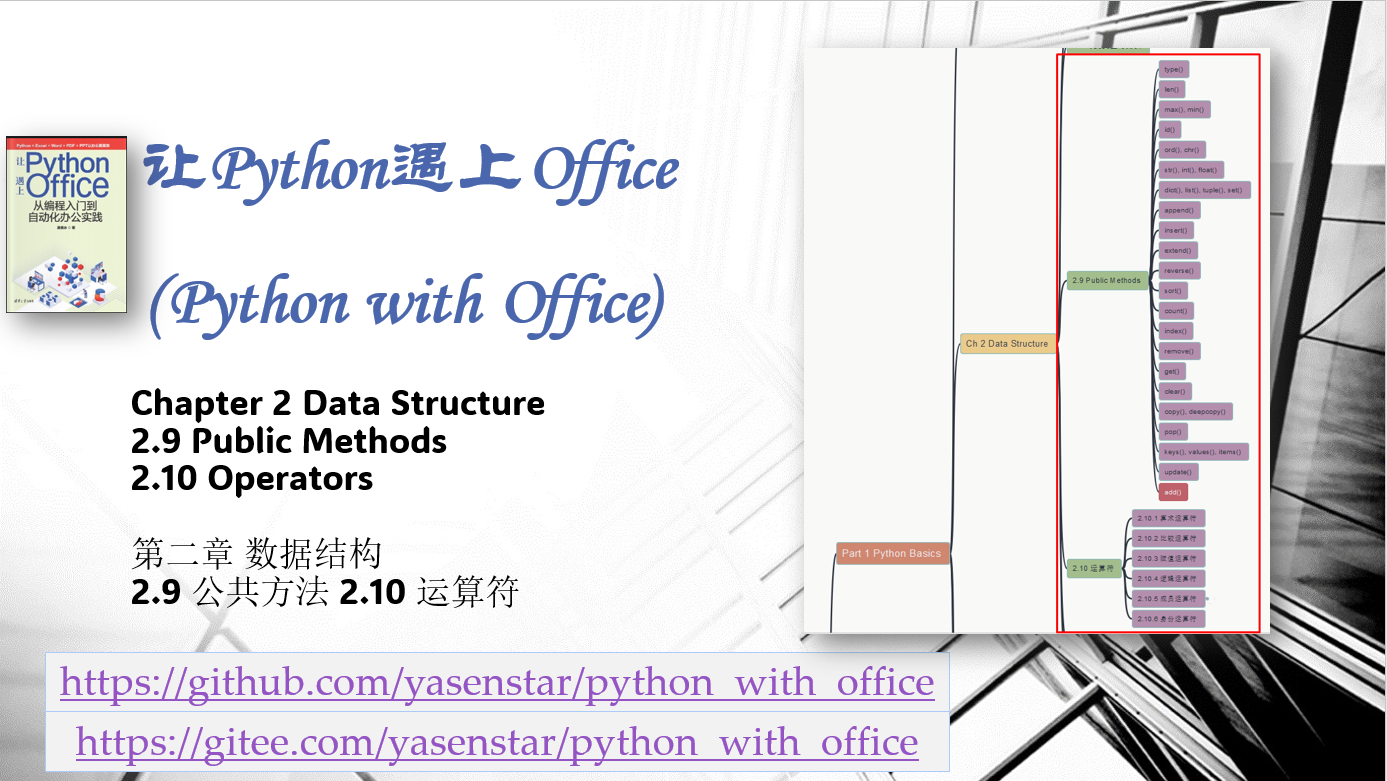
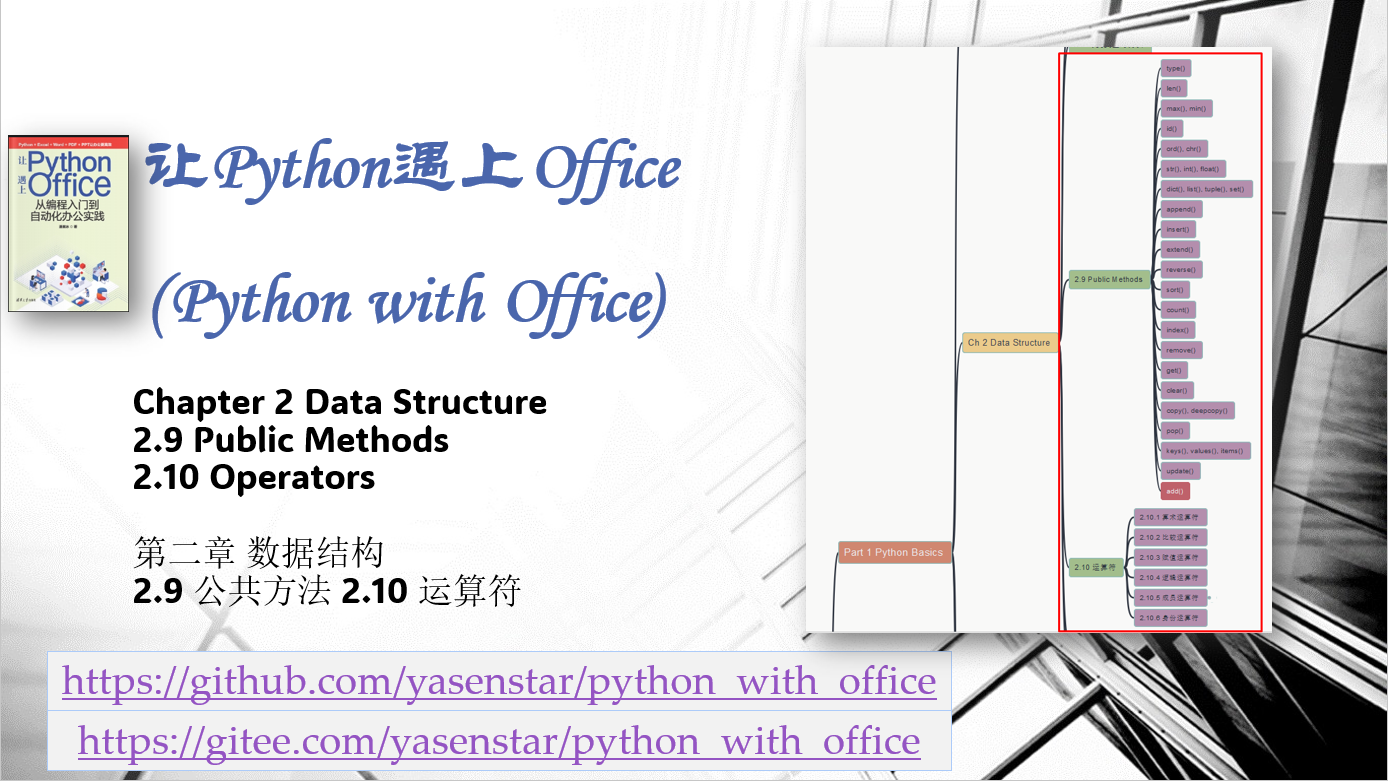
add 2-9 and 2-10

diff --git a/Python_in_Office.mm b/Python_in_Office.mm
@@ -3,7 +3,7 @@
 <node TEXT="Python in Office" LOCALIZED_STYLE_REF="AutomaticLayout.level.root" FOLDED="false" ID="ID_1090958577" CREATED="1409300609620" MODIFIED="1697644508245">
 <hook NAME="accessories/plugins/AutomaticLayout.properties" VALUE="ALL"/>
 <font BOLD="true"/>
-<hook NAME="MapStyle" background="#f9f9f8" zoom="0.77">
+<hook NAME="MapStyle" background="#f9f9f8" zoom="1.301">
     <properties show_icon_for_attributes="true" edgeColorConfiguration="#808080ff,#ff0000ff,#0000ffff,#00ff00ff,#ff00ffff,#00ffffff,#7c0000ff,#00007cff,#007c00ff,#7c007cff,#007c7cff,#7c7c00ff" show_note_icons="true" associatedTemplateLocation="template:/light_nord_template.mm" fit_to_viewport="false"/>
 
 <map_styles>
@@ -161,7 +161,7 @@
 <node TEXT="module: copy" ID="ID_1362805103" CREATED="1697759334476" MODIFIED="1697759338254"/>
 </node>
 </node>
-<node TEXT="2.9 Public Methods" ID="ID_1871793617" CREATED="1697644733565" MODIFIED="1697644751653">
+<node TEXT="2.9 Public Methods" FOLDED="true" ID="ID_1871793617" CREATED="1697644733565" MODIFIED="1697644751653">
 <node TEXT="type()" ID="ID_1294025124" CREATED="1697842657619" MODIFIED="1697842662860"/>
 <node TEXT="len()" ID="ID_899205959" CREATED="1697842663589" MODIFIED="1697842665750"/>
 <node TEXT="max(), min()" ID="ID_1100320387" CREATED="1697842665933" MODIFIED="1697842672734"/>
@@ -185,19 +185,49 @@
 <node TEXT="update()" ID="ID_37893305" CREATED="1697842750171" MODIFIED="1697842752871"/>
 <node TEXT="add()" ID="ID_984921496" CREATED="1697842753020" MODIFIED="1697842754624"/>
 </node>
-<node TEXT="2.10 运算符" ID="ID_1670318155" CREATED="1697644751901" MODIFIED="1697644761494">
-<node TEXT="2.10.1 算术运算符" ID="ID_1659836768" CREATED="1697759378565" MODIFIED="1697759411048"/>
-<node TEXT="2.10.2 比较运算符" ID="ID_1380847217" CREATED="1697759414675" MODIFIED="1697759425125"/>
-<node TEXT="2.10.3 赋值运算符" ID="ID_1520875329" CREATED="1697759429823" MODIFIED="1697759438959"/>
-<node TEXT="2.10.4 逻辑运算符" ID="ID_1126292249" CREATED="1697759443092" MODIFIED="1697759454354"/>
+<node TEXT="2.10 运算符" FOLDED="true" ID="ID_1670318155" CREATED="1697644751901" MODIFIED="1697644761494">
+<node TEXT="2.10.1 算术运算符" FOLDED="true" ID="ID_1659836768" CREATED="1697759378565" MODIFIED="1697759411048">
+<node TEXT="+" ID="ID_1467172978" CREATED="1698005404263" MODIFIED="1698005406376"/>
+<node TEXT="-" ID="ID_778616941" CREATED="1698005406839" MODIFIED="1698005408162"/>
+<node TEXT="*" ID="ID_1020088743" CREATED="1698005408431" MODIFIED="1698005410425"/>
+<node TEXT="/" ID="ID_997396774" CREATED="1698005410831" MODIFIED="1698005413347"/>
+<node TEXT="**" ID="ID_1098977826" CREATED="1698005413916" MODIFIED="1698005427737"/>
+<node TEXT="//" ID="ID_1829111511" CREATED="1698005428463" MODIFIED="1698005431049"/>
+<node TEXT="%" ID="ID_90804481" CREATED="1698005431615" MODIFIED="1698005436309"/>
+</node>
+<node TEXT="2.10.2 比较运算符" FOLDED="true" ID="ID_1380847217" CREATED="1697759414675" MODIFIED="1697759425125">
+<node TEXT="&gt;, &gt;=" ID="ID_1480931876" CREATED="1698005446111" MODIFIED="1698005459370"/>
+<node TEXT="==" ID="ID_1953027461" CREATED="1698005459583" MODIFIED="1698005463329"/>
+<node TEXT="&lt;, &lt;=" ID="ID_1424113055" CREATED="1698005464007" MODIFIED="1698005476654"/>
+<node TEXT="!=" ID="ID_1472358308" CREATED="1698005477367" MODIFIED="1698005481025"/>
+</node>
+<node TEXT="2.10.3 赋值运算符" FOLDED="true" ID="ID_1520875329" CREATED="1697759429823" MODIFIED="1697759438959">
+<node TEXT="=" ID="ID_1042444014" CREATED="1698005516336" MODIFIED="1698005517862"/>
+<node TEXT="+=: a=a+5 can be a += 5" ID="ID_695589510" CREATED="1698005561103" MODIFIED="1698005585311"/>
+<node TEXT="++: a++ can be a=a+1" ID="ID_1514315211" CREATED="1698005594743" MODIFIED="1698005611340"/>
+</node>
+<node TEXT="2.10.4 逻辑运算符" FOLDED="true" ID="ID_1126292249" CREATED="1697759443092" MODIFIED="1697759454354">
+<node TEXT="and" ID="ID_740426532" CREATED="1698005651695" MODIFIED="1698005653528"/>
+<node TEXT="or" ID="ID_926533992" CREATED="1698005653679" MODIFIED="1698005654480"/>
+<node TEXT="not" ID="ID_1758904939" CREATED="1698005654672" MODIFIED="1698005655737"/>
+</node>
 <node TEXT="2.10.5 成员运算符" FOLDED="true" ID="ID_675089928" CREATED="1697759454894" MODIFIED="1697759471094">
 <node TEXT="in" ID="ID_1861266957" CREATED="1697759473982" MODIFIED="1697759476288"/>
 <node TEXT="not in" ID="ID_1215413116" CREATED="1697759476463" MODIFIED="1697759479070"/>
 </node>
-<node TEXT="2.10.6 身份运算符" ID="ID_494380658" CREATED="1697759483092" MODIFIED="1697759493870"/>
+<node TEXT="2.10.6 身份运算符" FOLDED="true" ID="ID_494380658" CREATED="1697759483092" MODIFIED="1697759493870">
+<node TEXT="is" ID="ID_950332199" CREATED="1698006203129" MODIFIED="1698006210002"/>
+<node TEXT="is not" ID="ID_1421082813" CREATED="1698006210168" MODIFIED="1698006212924"/>
+</node>
 </node>
 <node TEXT="2.11 Traverse 遍历" ID="ID_459798000" CREATED="1697644764615" MODIFIED="1697644775054"/>
-<node TEXT="2.12 推导式" ID="ID_658640374" CREATED="1697644776340" MODIFIED="1697644783119"/>
+<node TEXT="2.12 Comprehensions推导式" ID="ID_658640374" CREATED="1697644776340" MODIFIED="1698006445357">
+<node TEXT="List Comprehensions" ID="ID_427706249" CREATED="1698006450776" MODIFIED="1698006457276"/>
+<node TEXT="Dict Comprehensions" ID="ID_542125056" CREATED="1698006457466" MODIFIED="1698006463564"/>
+<node TEXT="Set Comprehensions" ID="ID_880591559" CREATED="1698006463736" MODIFIED="1698006473001"/>
+<node TEXT="Generator Comprehensions" ID="ID_1060913496" CREATED="1698006473175" MODIFIED="1698006480784"/>
+<node TEXT="Nested Comprehensions" ID="ID_1758146796" CREATED="1698006906705" MODIFIED="1698006912593"/>
+</node>
 </node>
 <node TEXT="Ch 3 Functions" ID="ID_157578911" CREATED="1697644784644" MODIFIED="1697644791014">
 <node TEXT="3.1 Basic Structure" ID="ID_555053913" CREATED="1697644796068" MODIFIED="1697644808958">

diff --git a/part1/ch02/2-10.py b/part1/ch02/2-10.py
@@ -1,0 +1,18 @@
+# a = 3
+# b = 3
+# print(id(a), id(b))
+
+# import copy
+# c = ["A"]
+# d = c.copy()
+# print(id(c), id(d))
+# print(id(c) == id(d))
+
+a = 2
+b = 2
+print(a is b)
+c = ["A"]
+d = c.copy()
+print(c == d)
+print(c is d)
+print(c is not d)
